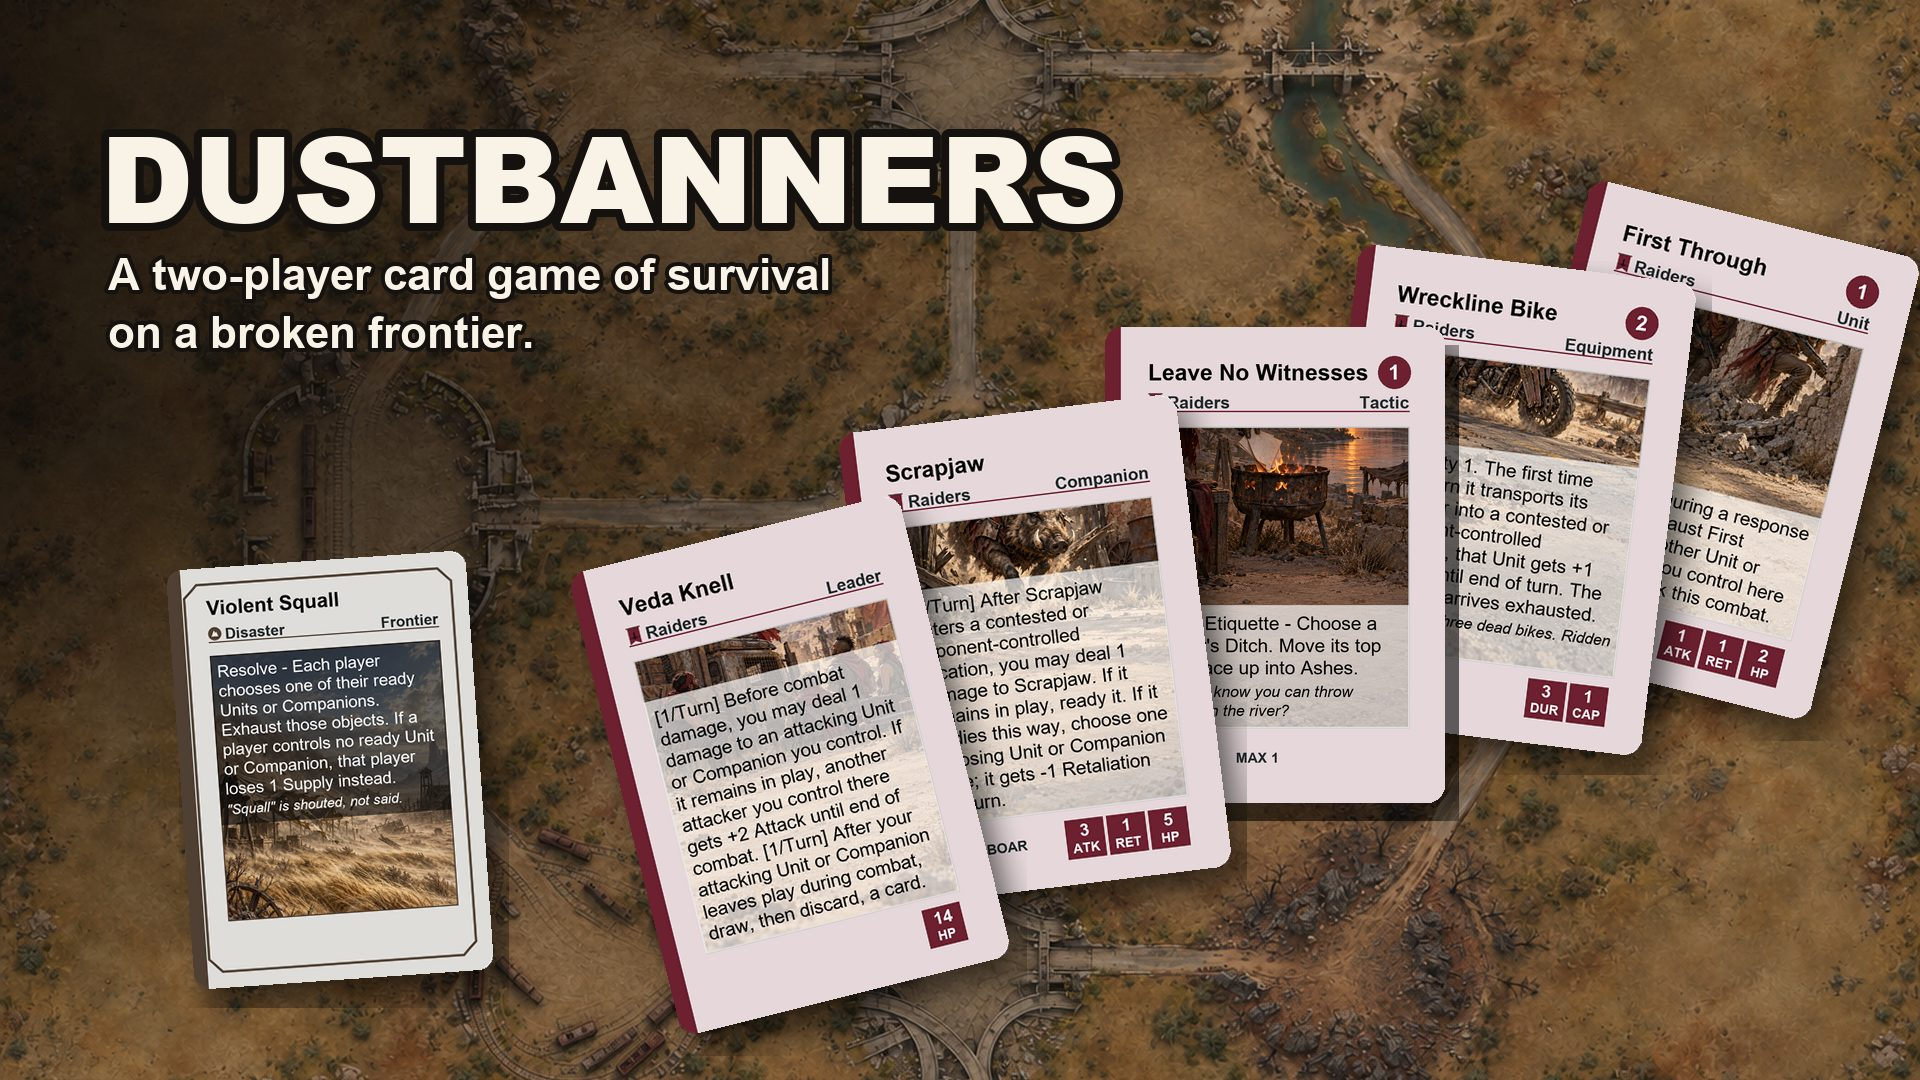
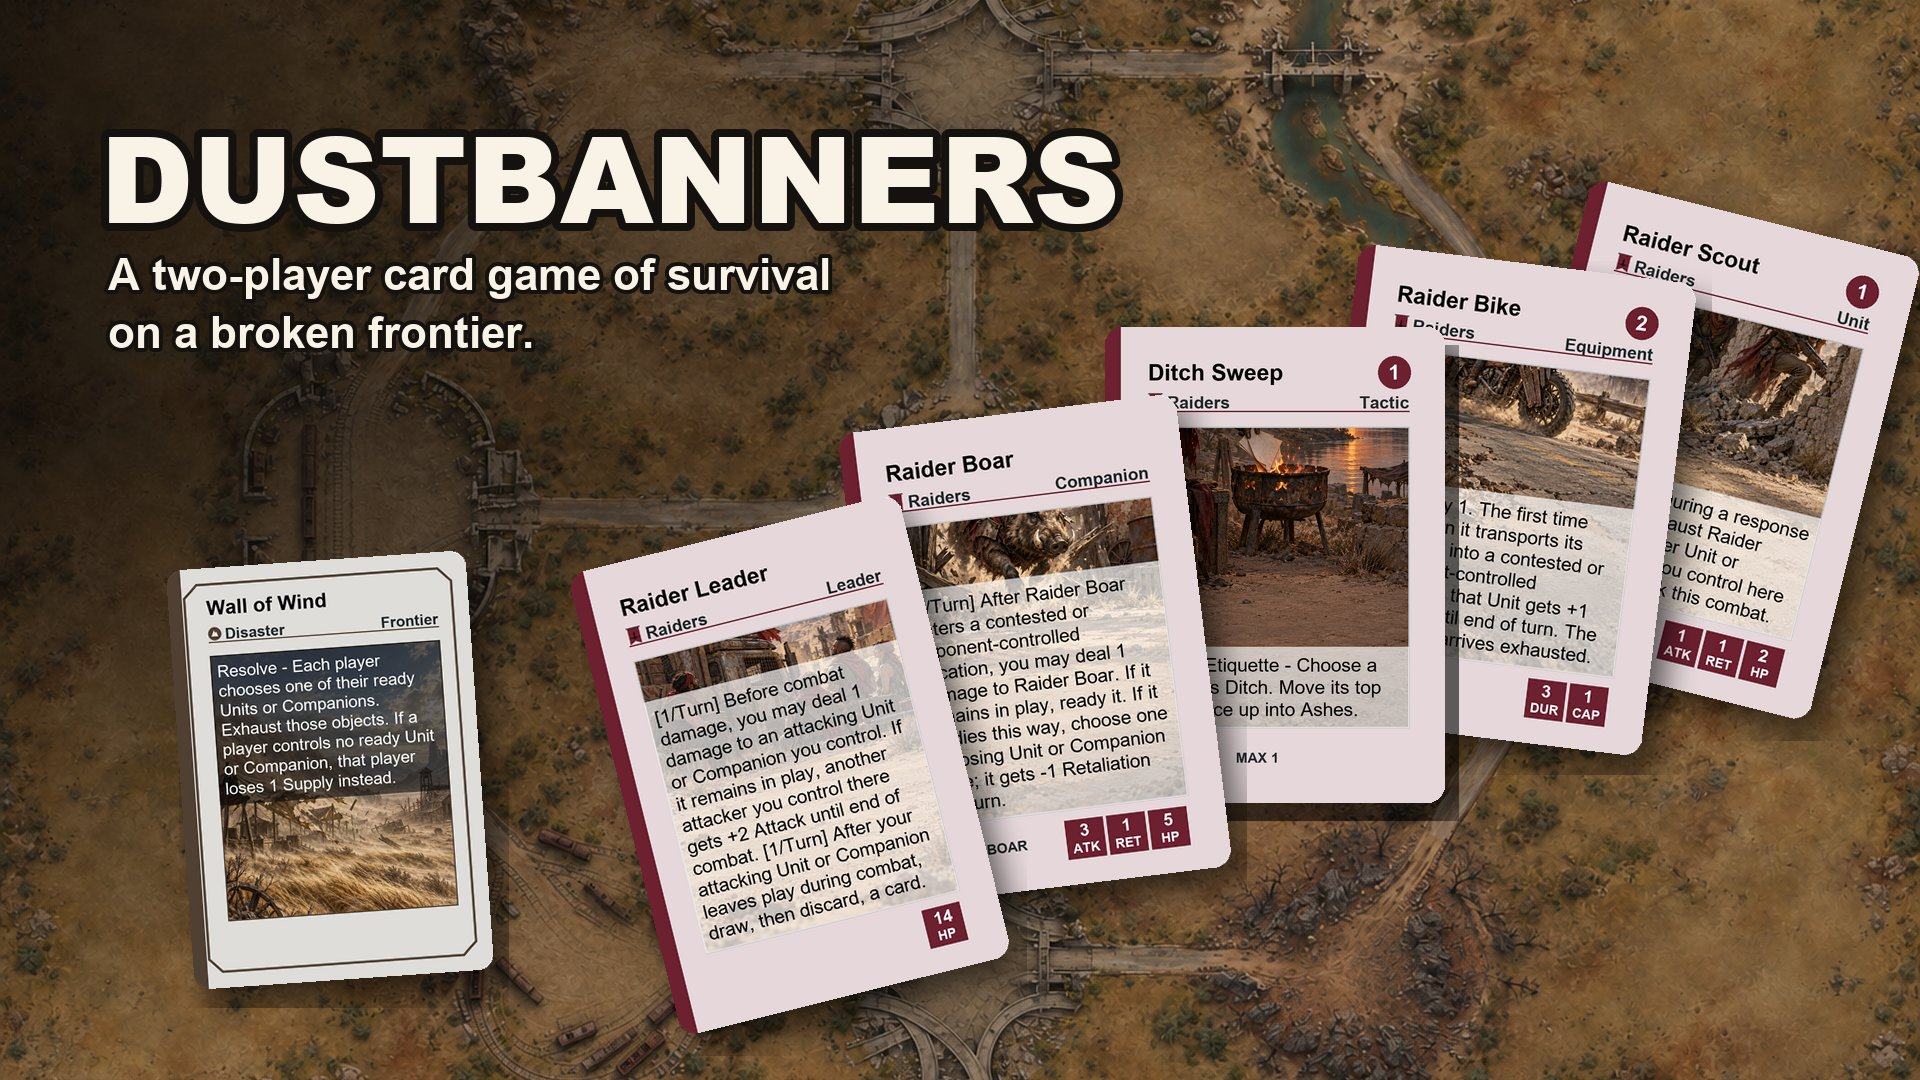
Site r28: art-free switch keeps the cards, new cards section, generic card names, stand-in place names

diff --git a/index.html b/index.html
@@ -91,10 +91,18 @@ footer .art-note { font-size: 14px; }
 .art-toggle { font: inherit; font-size: 15px; background: var(--card); color: var(--cream); border: 1px solid var(--line);
   border-radius: 6px; padding: 6px 12px; cursor: pointer; }
 .art-toggle:hover, .art-toggle:focus-visible { border-color: var(--ochre); }
-.art-frame { display: none; max-width: 1100px; margin: 0 auto; aspect-ratio: 16 / 9; max-height: 60vh; border: 2px dashed var(--line);
-  align-items: center; justify-content: center; text-align: center; padding: 16px; color: var(--muted); font-size: 18px; }
 html.art-off .ai-art { display: none !important; }
-html.art-off .art-frame { display: flex; }
+/* r27 (Kyle 2026-10-19): the AI art switch hides only the AI art. Each picture has an art-free twin (cards and text stay). */
+.free-art { display: none; }
+html.art-off .free-art { display: block; }
+.card-grid img.free-art { display: none; }
+html.art-off .card-grid img.free-art { display: block; }
+.hero img { max-width: 100%; height: auto; }
+.card-grid { list-style: none; margin: 0; padding: 0; display: grid; gap: 22px; grid-template-columns: repeat(auto-fill, minmax(230px, 1fr)); }
+.card-grid li { background: var(--card); border: 1px solid var(--line); border-radius: 8px; padding: 14px; }
+.card-grid img { display: block; width: 100%; max-width: 360px; height: auto; margin: 0 auto 12px; }
+.card-grid h3 { margin: 0 0 6px; font-size: 19px; }
+.card-grid p { margin: 0; font-size: 17px; }
 /* Menu (Kyle 2026-10-14): wide screens show everything in one row; phones get a 3-line button that drops the menu down. */
 header { position: relative; }
 .site-menu { margin-left: auto; display: flex; flex-wrap: wrap; align-items: center; gap: 8px 18px; }
@@ -133,7 +141,7 @@ header { position: relative; }
   <button type="button" class="menu-btn" id="menu-btn" aria-expanded="false" aria-controls="site-menu" aria-label="Menu">
     <span></span><span></span><span></span></button>
   <div class="site-menu" id="site-menu">
-    <nav aria-label="Main"><a href="#game">The game</a><a href="#playtest">Help playtest</a><a href="#creator">Creator</a><a href="#ai">Made by people</a><a href="#signup">Email news</a><a href="#follow">Follow</a><a href="#contact">Contact</a></nav>
+    <nav aria-label="Main"><a href="#game">The game</a><a href="#cards">The cards</a><a href="#playtest">Help playtest</a><a href="#creator">Creator</a><a href="#ai">Made by people</a><a href="#signup">Email news</a><a href="#follow">Follow</a><a href="#contact">Contact</a></nav>
     <div class="switches">
       <button type="button" class="art-toggle" id="art-toggle">AI art: On</button>
       <button type="button" class="art-toggle" id="theme-toggle">Light mode</button>
@@ -143,11 +151,15 @@ header { position: relative; }
 
 <main>
 <figure class="hero" style="margin:0">
-  <div class="art-frame">AI placeholder art is hidden. The final art is coming from human artists.</div>
   <picture class="ai-art">
     <source media="(max-width: 1100px)" srcset="img/hero-1024.jpg">
     <img src="img/hero.jpg" width="1920" height="1080"
-         alt="The Dustbanners title over a painted frontier map, with six placeholder cards fanned out: Violent Squall, Veda Knell, Scrapjaw, Leave No Witnesses, Wreckline Bike and First Through. Placeholder art (AI-made). Final art by human artists.">
+         alt="The Dustbanners title over a painted frontier map, with six placeholder cards fanned out: a Frontier Disaster card, a Leader, a Companion, a Tactic, an Equipment card and a Unit. Each card shows a generic name and its real rules text. Placeholder art (AI-made). Final art by human artists.">
+  </picture>
+  <picture class="free-art">
+    <source media="(max-width: 1100px)" srcset="img/hero-free-1024.jpg">
+    <img src="img/hero-free.jpg" width="1920" height="1080"
+         alt="The Dustbanners title on a plain dark background, with the same six cards fanned out: a Frontier Disaster card, a Leader, a Companion, a Tactic, an Equipment card and a Unit. The art boxes are empty.">
   </picture>
   <figcaption class="ai-art">Placeholder art (AI-made). Final art by human artists.</figcaption>
 </figure>
@@ -160,7 +172,7 @@ header { position: relative; }
 <section id="teaser">
   <h2>Eighty years after the fall, the valley still has nine places worth holding.</h2>
   <div class="panel">
-    <p>Dustbanners is a two-player card game set on a broken frontier, about eighty years after the world fell apart. You lead a banner into a valley of nine places. Break the other side&rsquo;s Leader, or hold eight of the nine by the end of a turn. The Frontier Deck turns up a storm, a wild animal or a find every turn, and both of you have to deal with it.</p>
+    <p>Dustbanners is a two-player card game set on a broken frontier, about eighty years after the world fell apart. You lead a banner into a valley of nine places. Break the other side&rsquo;s Leader, or hold eight of the nine at the end of any turn. The Frontier Deck turns up a storm, a wild animal or a find every turn, and both of you have to deal with it.</p>
     <p>What&rsquo;s in it for you:</p>
     <ul class="points">
       <li><strong>A world that will grow.</strong> Each season will add a chapter of the story, and new cards will come from it.</li>
@@ -199,7 +211,7 @@ header { position: relative; }
       <li>2 players, ages 14 and up.</li>
       <li>The first box has two factions: the Wardens (&ldquo;How do we protect what&rsquo;s ours?&rdquo;) and the Raiders
       (&ldquo;What can we take?&rdquo;). Each banner has two Leaders and two Companions to choose from.</li>
-      <li>Two ways to win, and both are always open: break the enemy Leader, or hold 8 of the 9 places at the end of a turn.</li>
+      <li>Two ways to win, and both are always open: break the enemy Leader, or hold 8 of the 9 places at the end of any turn.</li>
       <li>The Frontier Deck turns up something every turn (a storm, a wild animal, a find) that both of you have to deal with.</li>
       <li>No random packs. Every box has the same cards.</li>
       <li>More factions to come.</li>
@@ -209,7 +221,7 @@ header { position: relative; }
       <ul class="points">
         <li>Magic: The Gathering, but want fixed boxes, a simpler resource (we call it Supply), and a world whose story grows with every season.</li>
         <li>Android: Netrunner, for two sides that play differently, no random packs, and a frontier with its own history to read.</li>
-        <li>KeyForge, for decks that are ready to play out of the box, with cards balanced in thousands of simulated games before they reach your table.</li>
+        <li>KeyForge, for decks that are ready to play out of the box.</li>
         <li>Marvel Champions, for fixed expansions instead of boosters, each one a new chapter of the story.</li>
         <li>Root, for factions that feel nothing alike, each with its own people, places and sayings.</li>
         <li>Arcs, for card-driven strategy in a world you can read as deep as you like.</li>
@@ -217,6 +229,66 @@ header { position: relative; }
       <p class="small">Those games belong to their makers. Dustbanners is not connected to any of them.</p>
     </div>
     <p>A printed test copy is being made, and a print-and-play version is coming.</p>
+  </div>
+</section>
+
+<section id="cards">
+  <h2>The cards</h2>
+  <div class="panel">
+    <p>Every card in the first box is one of these eight kinds. Here is one of each, with its real rules text. The names are
+    plain stand-ins for now. When the AI art is on, the pictures in the cards are AI-made placeholders. Use the
+    &ldquo;AI art&rdquo; button at the top to swap them for empty boxes. The final art is coming from human artists.</p>
+    <ul class="card-grid">
+      <li>
+        <img class="ai-art" src="img/card-leader.webp" width="480" height="672" loading="lazy" alt="A Leader card named Warden Leader. HP 21. Its rules say: [1/Opp Turn] The first time a Unit or Companion you control would take damage, you may pay 1 Supply: prevent 1 damage. [1/Opp Turn] After your Unit Guards, prevents damage, or survives combat while defending, give one of your ready Units +1 Attack through your next turn. This bonus cannot stack with itself on one Unit. The picture in the card is AI-made. Placeholder art (AI-made).">
+        <img class="free-art" src="img/card-leader-free.webp" width="480" height="672" loading="lazy" alt="A Leader card named Warden Leader. HP 21. Its rules say: [1/Opp Turn] The first time a Unit or Companion you control would take damage, you may pay 1 Supply: prevent 1 damage. [1/Opp Turn] After your Unit Guards, prevents damage, or survives combat while defending, give one of your ready Units +1 Attack through your next turn. This bonus cannot stack with itself on one Unit. The art box is empty.">
+        <h3>Leader</h3>
+        <p>Your Leader leads your banner. If your Leader is defeated, you lose.</p>
+      </li>
+      <li>
+        <img class="ai-art" src="img/card-companion.webp" width="480" height="672" loading="lazy" alt="A Companion card named Guard Pig. ATK 1, RET 3, HP 6. Its rules say: Guard Pig can Guard one of your Units or Companions, or your Leader, anywhere. [1/Opp Turn] After combat ends, if Guard Pig Guarded and remains in play, ready one other Unit you control at the attacked Location. The picture in the card is AI-made. Placeholder art (AI-made).">
+        <img class="free-art" src="img/card-companion-free.webp" width="480" height="672" loading="lazy" alt="A Companion card named Guard Pig. ATK 1, RET 3, HP 6. Its rules say: Guard Pig can Guard one of your Units or Companions, or your Leader, anywhere. [1/Opp Turn] After combat ends, if Guard Pig Guarded and remains in play, ready one other Unit you control at the attacked Location. The art box is empty.">
+        <h3>Companion</h3>
+        <p>A Companion is an animal or a person who fights beside your Leader. If it is defeated, you can bring it back.</p>
+      </li>
+      <li>
+        <img class="ai-art" src="img/card-unit.webp" width="480" height="672" loading="lazy" alt="A Unit card named Warden Healer. Cost 2. ATK 1, RET 2, HP 3. Its rules say: Once each turn after a Unit or Companion at Warden Healer&#x27;s Location is dealt damage and remains in play, you may exhaust Warden Healer to Restore 1 damage from it. The picture in the card is AI-made. Placeholder art (AI-made).">
+        <img class="free-art" src="img/card-unit-free.webp" width="480" height="672" loading="lazy" alt="A Unit card named Warden Healer. Cost 2. ATK 1, RET 2, HP 3. Its rules say: Once each turn after a Unit or Companion at Warden Healer&#x27;s Location is dealt damage and remains in play, you may exhaust Warden Healer to Restore 1 damage from it. The art box is empty.">
+        <h3>Unit</h3>
+        <p>Units are your banner&rsquo;s people. They move, attack, defend and capture places.</p>
+      </li>
+      <li>
+        <img class="ai-art" src="img/card-tactic.webp" width="480" height="672" loading="lazy" alt="A Tactic card named Fall Back. Cost 1. Its rules say: Redeploy one damaged Unit or Companion you control to an adjacent Location you control. Prevent the next 1 damage that would be dealt to it this turn. The picture in the card is AI-made. Placeholder art (AI-made).">
+        <img class="free-art" src="img/card-tactic-free.webp" width="480" height="672" loading="lazy" alt="A Tactic card named Fall Back. Cost 1. Its rules say: Redeploy one damaged Unit or Companion you control to an adjacent Location you control. Prevent the next 1 damage that would be dealt to it this turn. The art box is empty.">
+        <h3>Tactic</h3>
+        <p>A Tactic is a one-time action. Do what it says, then put it in your discard pile, the Ditch.</p>
+      </li>
+      <li>
+        <img class="ai-art" src="img/card-equipment.webp" width="480" height="672" loading="lazy" alt="An Equipment card named Warden Shield. Cost 2. DUR 3. Its rules say: Attach to a Unit you control. The attached Unit can Guard your Leader or a Location you control, anywhere. While Guarding, prevent the first 1 combat damage dealt to it each turn. The picture in the card is AI-made. Placeholder art (AI-made).">
+        <img class="free-art" src="img/card-equipment-free.webp" width="480" height="672" loading="lazy" alt="An Equipment card named Warden Shield. Cost 2. DUR 3. Its rules say: Attach to a Unit you control. The attached Unit can Guard your Leader or a Location you control, anywhere. While Guarding, prevent the first 1 combat damage dealt to it each turn. The art box is empty.">
+        <h3>Equipment</h3>
+        <p>Equipment is gear. It goes on a card it names, or it sits at a place you control.</p>
+      </li>
+      <li>
+        <img class="ai-art" src="img/card-structure.webp" width="480" height="672" loading="lazy" alt="A Structure card named Field Clinic. Cost 3. DUR 4. Its rules say: [1/Turn] [After Combat] After combat ends at this Location during your turn, you may pay 1 Supply. Restore 1 damage from one surviving Unit or Companion you control there. The picture in the card is AI-made. Placeholder art (AI-made).">
+        <img class="free-art" src="img/card-structure-free.webp" width="480" height="672" loading="lazy" alt="A Structure card named Field Clinic. Cost 3. DUR 4. Its rules say: [1/Turn] [After Combat] After combat ends at this Location during your turn, you may pay 1 Supply. Restore 1 damage from one surviving Unit or Companion you control there. The art box is empty.">
+        <h3>Structure</h3>
+        <p>A Structure is something you build at a place you control.</p>
+      </li>
+      <li>
+        <img class="ai-art" src="img/card-location.webp" width="480" height="672" loading="lazy" alt="A Battlefield Location card named Mountain Road. DUR 4. Its rules say: Capture Reward - When a player Captures Mountain Road, that player draws 1 card, then discards 1 card. Routes: the West Yard; the Upper Junction. The picture in the card is AI-made. Placeholder art (AI-made).">
+        <img class="free-art" src="img/card-location-free.webp" width="480" height="672" loading="lazy" alt="A Battlefield Location card named Mountain Road. DUR 4. Its rules say: Capture Reward - When a player Captures Mountain Road, that player draws 1 card, then discards 1 card. Routes: the West Yard; the Upper Junction. The art box is empty.">
+        <h3>Battlefield Location</h3>
+        <p>A Location is one of the nine places on the map. Hold 8 of the 9 at the end of any turn to win.</p>
+      </li>
+      <li>
+        <img class="ai-art" src="img/card-frontier.webp" width="480" height="672" loading="lazy" alt="A Frontier card named Hidden Supplies. Its rules say: Resolve - Each player Generates 1 Supply this turn. The reveal controller Generates 1 additional Supply. The picture in the card is AI-made. Placeholder art (AI-made).">
+        <img class="free-art" src="img/card-frontier-free.webp" width="480" height="672" loading="lazy" alt="A Frontier card named Hidden Supplies. Its rules say: Resolve - Each player Generates 1 Supply this turn. The reveal controller Generates 1 additional Supply. The art box is empty.">
+        <h3>Frontier card</h3>
+        <p>Frontier cards come from the shared deck. Storms, finds, animals and trouble happen to both of you.</p>
+      </li>
+    </ul>
+    <p class="small ai-art">Placeholder art (AI-made). Final art by human artists.</p>
   </div>
 </section>
 

diff --git a/proving-ground.html b/proving-ground.html
@@ -6,11 +6,11 @@
 <meta http-equiv="Content-Security-Policy" content="default-src 'self'; script-src 'self' 'sha256-DBpnz6wF+obO8n4OcbYBP2+vZkM7UQlXANzH2lWyuQ4=' 'sha256-D9abhaGQn3eCCK8AMFSsOfHg4OdvKe7pIo733vtjts4='; style-src 'self' 'unsafe-inline'; img-src 'self'; font-src 'self'; connect-src 'none'; object-src 'none'; base-uri 'self'; form-action 'none'">
 <meta name="referrer" content="strict-origin-when-cross-origin">
 <title>Proving Ground | Dustbanners</title>
-<meta name="description" content="How Dustbanners is balanced: the computer plays the computer, thousands of times, before people sit down at a table.">
+<meta name="description" content="How Dustbanners is tested: the computer plays the computer, thousands of times, before people sit down at a table.">
 <meta property="og:type" content="website">
 <meta property="og:url" content="https://dustbanners.com/proving-ground.html">
 <meta property="og:title" content="Proving Ground | Dustbanners">
-<meta property="og:description" content="How Dustbanners is balanced: the computer plays the computer before people sit down at a table.">
+<meta property="og:description" content="How Dustbanners is tested: the computer plays the computer before people sit down at a table.">
 <meta property="og:image" content="https://dustbanners.com/img/sun.png">
 <meta property="og:image:alt" content="The Dustbanners sun logo: a half sun rising over the horizon. Placeholder art (AI-made). Final art by human artists.">
 <meta property="og:site_name" content="Dustbanners">
@@ -152,12 +152,12 @@ html.art-off .ai-art { display: none !important; }
 <main>
 <section id="what">
   <h1>Proving Ground</h1>
-  <p class="lede">How Dustbanners gets balanced before anyone plays it.</p>
+  <p class="lede">How Dustbanners is tested before anyone plays it.</p>
   <div class="panel">
     <p>Before people sit down at a table, the computer plays Dustbanners against itself, over and over. Every game is written
     down: which banner won, how it won, who went first, and how many rounds it took.</p>
     <p>Those records show where the game leans one way. When a card or a rule tips the balance, it gets changed and tested
-    again, so the game is fair before it reaches players. The games run on Kyle&rsquo;s laptop and on computers in the cloud.</p>
+    again. The games run on Kyle&rsquo;s laptop and on computers in the cloud.</p>
   </div>
   <p class="fieldnote"><b>Who played these games</b>These are computer players, not people. The numbers below speak to balance only. They say nothing about
   how fun a game is or how long it takes at a real table.</p>
@@ -180,7 +180,7 @@ html.art-off .ai-art { display: none !important; }
 <section id="rules">
   <h2>The current rules</h2>
   <ul class="points">
-    <li>Hold 8 of the 9 places at the end of a turn to win.</li>
+    <li>Hold 8 of the 9 places at the end of any turn to win.</li>
     <li>Breaking the other side&rsquo;s Leader still wins too.</li>
     <li>The second player draws 1 extra card in the opening hand.</li>
     <li>The first player gets 1 less Supply on turn 1.</li>

diff --git a/privacy.html b/privacy.html
@@ -92,6 +92,6 @@ policies.</p>
 <h2>Changes</h2>
 <p>We will post changes here with a new date.</p>
 </main>
-<footer><a href="index.html">Back to Dustbanners</a> &middot; &copy; 2026 AminalHungy</footer>
+<footer><a href="index.html">Back to Dustbanners</a> &middot; &copy; 2026 AminalHungy<br>The sun logo at the top is placeholder art (AI-made). Final art by human artists.</footer>
 </body>
 </html>
